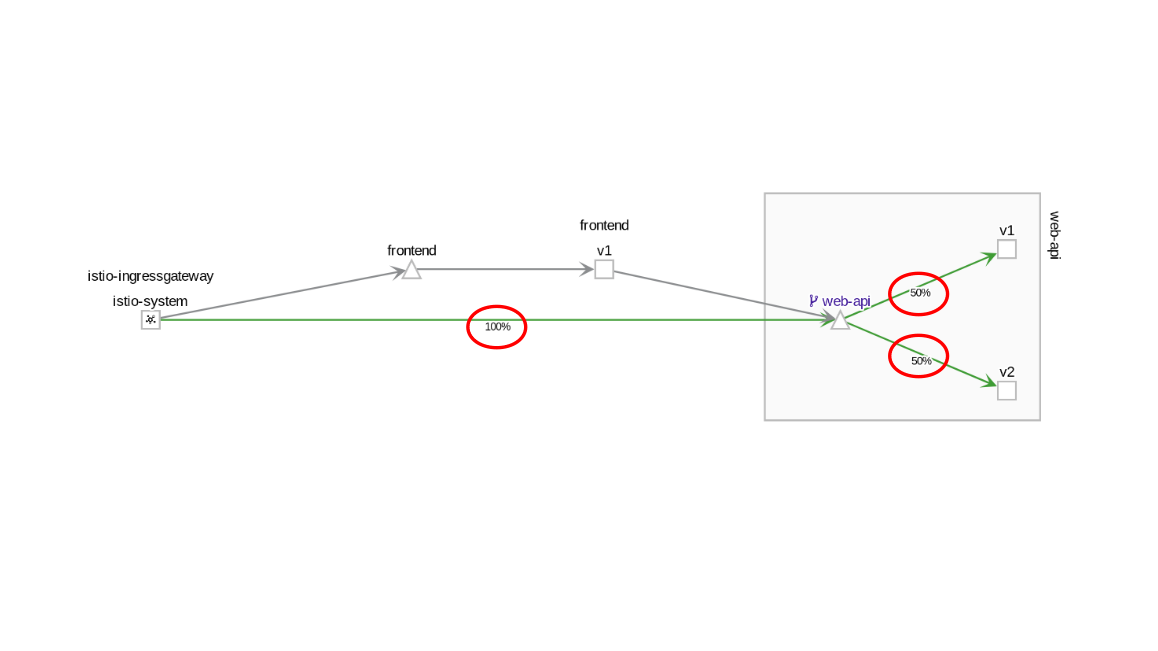
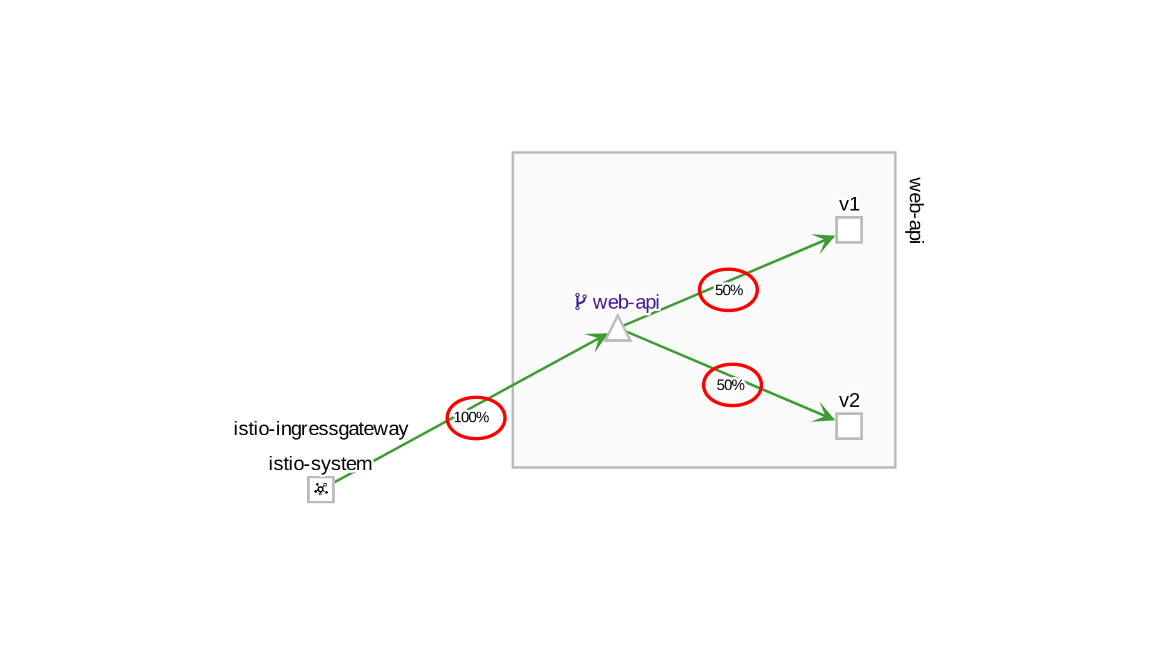
Corrections, License

diff --git a/README.md b/README.md
@@ -1,10 +1,10 @@
-## minimal istio request routing sample on minikube
+## Minimal Istio request routing sample on Minikube
 
-i used this scenario to test the behaviour ingress traffic routing (used for blue/green and canary deployments). in the end it is made up of two applications: web-api in 2 versions (v1 and v2) and a frontend that simply passes request thru to web-api.
+I used this scenario to test the behaviour ingress traffic routing (used for blue/green and canary deployments). In the end it is made up of two applications: Web-API in 2 versions (v1 and v2) and a Frontend that simply passes request thru to web-api.
 
-## web-api
+## Web-API
 
-the web-api application reads a string ("Version 1" or "Version 2") from an environment variable that is set in the deployment.yaml and returns that string when called with the URI /test:
+the Web-API application reads a string ("Version 1" or "Version 2") from an environment variable that is set in the deployment.yaml and returns that string when called with the URI /test:
 
 ```
 curl http://192.168.99.100:31380/test
@@ -13,15 +13,15 @@ curl http://192.168.99.100:31380/test
 => Version 2
 ```
 
-### prep 
+### Preparation 
 
-use docker environment of minikube
+Use the docker environment of Minikube
 
 ```
 eval $(minikube docker-env)
 ```
 
-### web-api
+### Web-API
 
 cd web-api
 
@@ -29,11 +29,11 @@ cd web-api
 docker build -t web-api:1 .
 ```
 
-### deploy
+### Deploy
 
 cd deployment
 
-if needed: 
+If needed (automatic envoy injection): 
 
 `kubectl label namespace default istio-injection=enabled`
 
@@ -43,32 +43,40 @@ kubectl apply -f deployment.yaml
 kubectl apply -f istio-ingress.yaml 
 ```
 
-### test
+### Test
 
 ```
 while true; do curl http://192.168.99.100:31380/test; sleep 1; done
 ```
 
---> accessing service web-app thru ingress gateway at nodeport 31380
+--> Accessing service web-app thru ingress gateway at nodeport 31380
 
 ==> v1 / v2 balanced
 
-### istio
+### Apply Istio rules
 
 ```
 kubectl apply -f destinationrule.yaml
 kubectl apply -f istio-svc-web-app.yaml
 ```
+==> Now 80% should go thru v1, 20% thru v2, **but it doesn't work!**
 
-==> 80% should go thru v1, 20% thru v2, BUT IT DOESN'T
+```
+while true; do curl http://192.168.99.100:31380/test; sleep 1; done
+```
+![web-api only](images/web-api.png)
+You can see that 100% of the traffic goes to the web-api service and although an istio virtualservice (istio-svc-web-app.yaml) is providing a 80/20 weight between v1 and v2, in reality the traffic is evenly split (50/50). Not what I would expect.
 
-## add frontend
 
-the frontend app simply passes a GET request on /get thru to web-api /test. result:
+## Add Frontend
+
+The Frontend app simply passes a GET request on /get thru to web-api /test. Result:
 
 ```
 curl 192.168.99.100:31380/get
 => Frontend calling Web-API, Result:  => Version 1
+curl 192.168.99.100:31380/get
+=> Frontend calling Web-API, Result:  => Version 2
 ```
 
 cd frontend
@@ -77,7 +85,7 @@ cd frontend
 docker build -t frontend:1 .
 ```
 
-## deploy frontend
+## Deploy Frontend
 
 cd deployment
 
@@ -86,19 +94,12 @@ kubectl apply -f service-w-frontend.yaml
 kubectl apply -f deployment-w-frontend.yaml  
 ```
 
-No you can test both scenarios: 
 
-calling the GET /test URI of web-api directly (as defined in istio-ingress.yaml):
-
-```
-while true; do curl http://192.168.99.100:31380/test; sleep 1; done
-```
-you can see that 100% of the traffic goes to the web-api service and although an istio virtualservice (istio-svc-web-app.yaml) is providing a 80/20 weight between v1 and v2, in reality the traffic is evenly split (50/50). not what i would expect.
-![web-api only](images/web-api.png)
-now calling the GET /get URI of the frontend app:
+Now test by calling the GET /get URI of the frontend app:
 
 ```
 while true; do curl http://192.168.99.100:31380/get; sleep 1; done
 ```
 ![fronend and web-api](images/frontend+web-api.png)
-now the istio virtualservice is working as expected: ~80% of the requests go to v1, ~20% g to v2.
+The Istio VirtualService is now working as expected: ~80% of the requests go to v1, ~20% g to v2.
+
